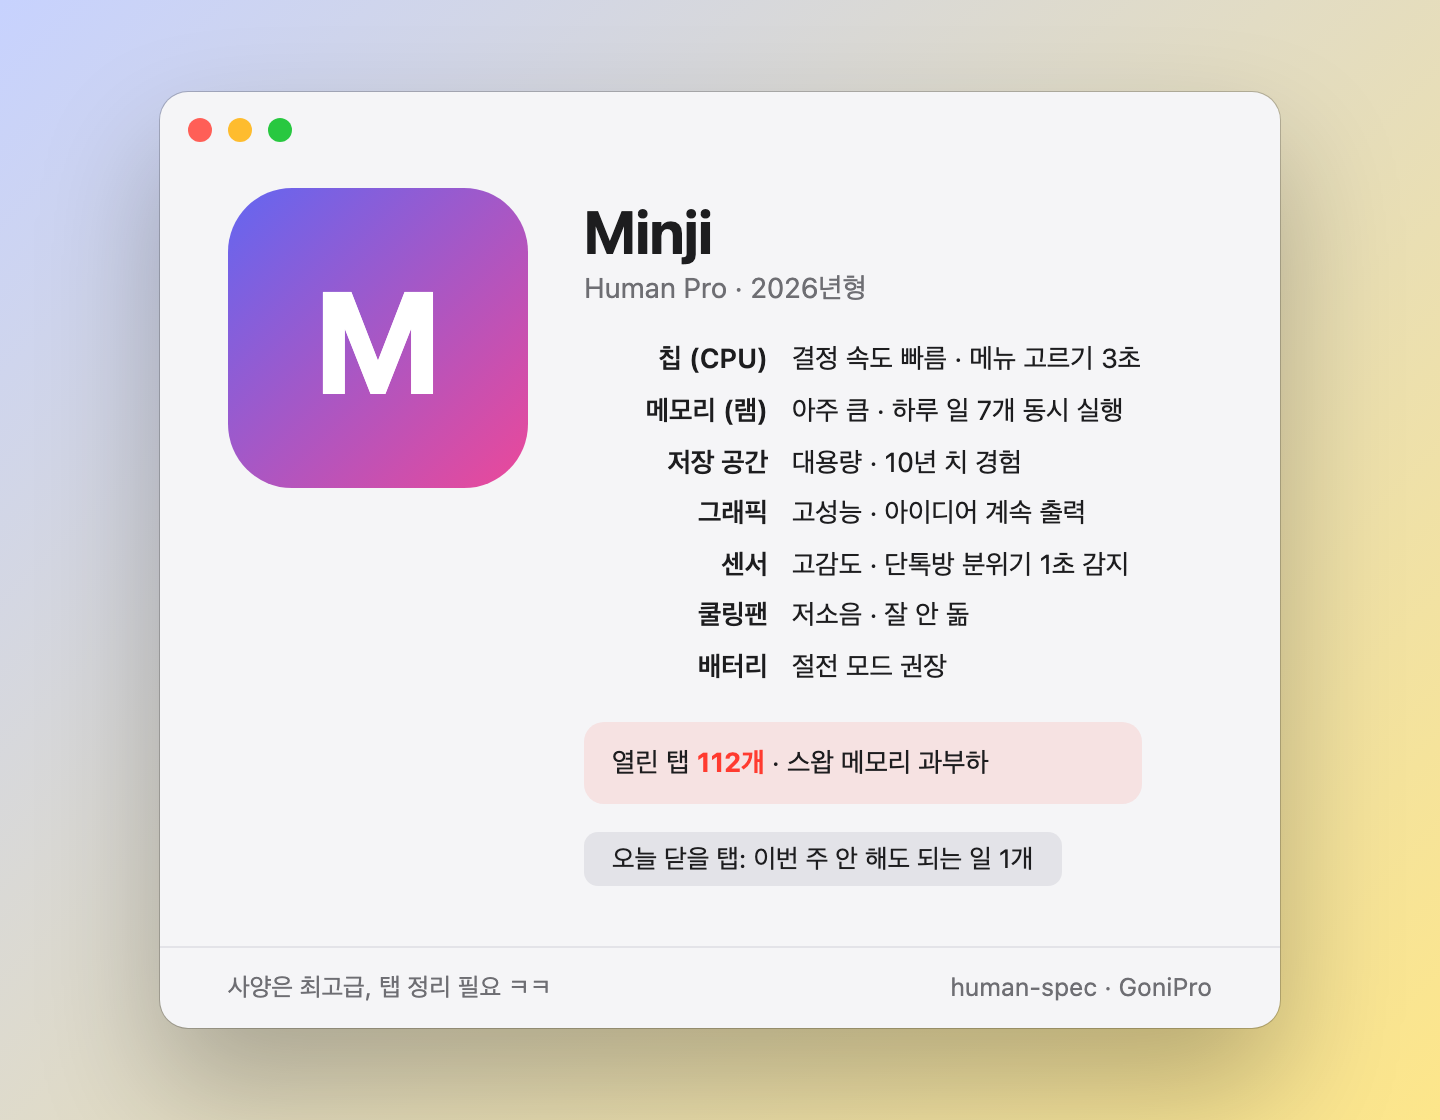
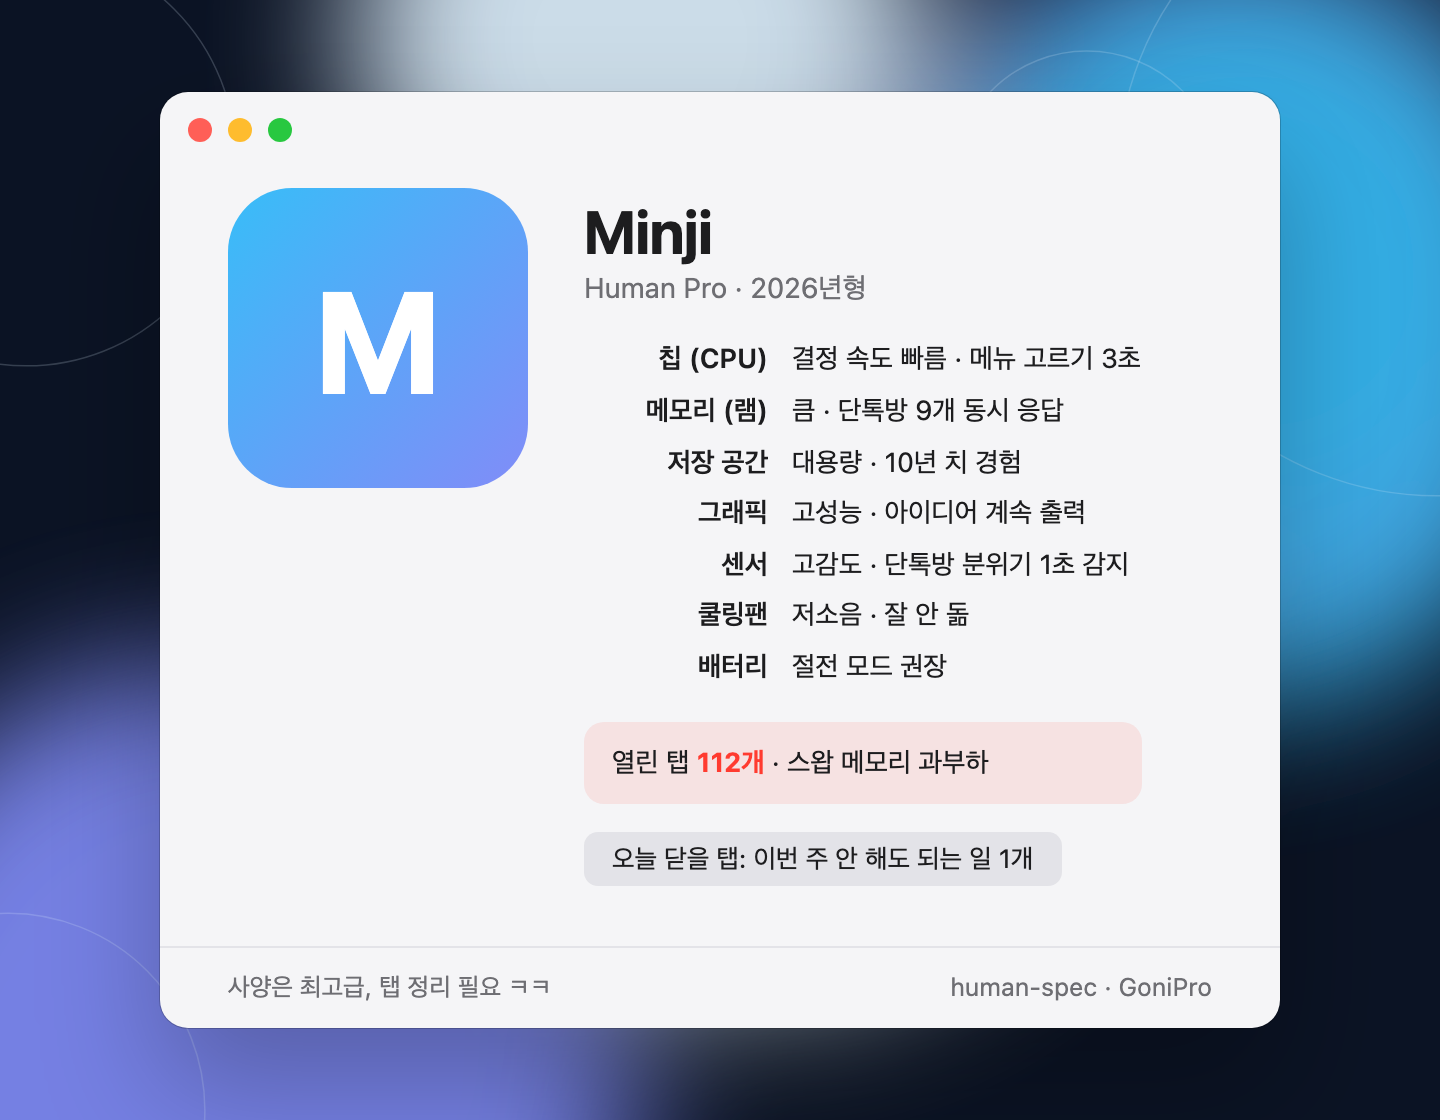
사람마다 다른 배경: 이름으로 색·모양 자동(팔레트 10종 × 선·별·원 무늬)
Claude-Session: https://claude.ai/code/session_01Sd2CQH6QC6bznUp7g1dXaV

diff --git a/template/card.html b/template/card.html
@@ -4,8 +4,8 @@
 <style>
   :root{--win:#f5f5f7;--ink:#1d1d1f;--sub:#6e6e73;--line:#e3e3e8;--accent:#0a84ff}
   @media (prefers-color-scheme:dark){:root{--win:#2b2b2e;--ink:#f5f5f7;--sub:#a1a1a6;--line:#3a3a3e}}
-  body{margin:0;min-height:100vh;display:grid;place-items:center;background:linear-gradient(135deg,#c7d2fe,#fde68a);font-family:-apple-system,BlinkMacSystemFont,"Apple SD Gothic Neo","Noto Sans KR",sans-serif}
-  .win{width:560px;background:var(--win);color:var(--ink);border-radius:14px;box-shadow:0 30px 60px rgba(0,0,0,.25),0 0 0 .5px rgba(0,0,0,.2);overflow:hidden}
+  body{margin:0;min-height:100vh;display:grid;place-items:center;background:#111;position:relative;overflow:hidden;font-family:-apple-system,BlinkMacSystemFont,"Apple SD Gothic Neo","Noto Sans KR",sans-serif}
+  #bg{position:fixed;inset:0;width:100%;height:100%;z-index:0}.win{position:relative;z-index:1;width:560px;background:var(--win);color:var(--ink);border-radius:14px;box-shadow:0 30px 60px rgba(0,0,0,.25),0 0 0 .5px rgba(0,0,0,.2);overflow:hidden}
   .bar{height:38px;display:flex;align-items:center;gap:8px;padding:0 14px}
   .bar i{width:12px;height:12px;border-radius:50%;display:inline-block}
   .body{display:flex;gap:28px;padding:10px 34px 30px}
@@ -20,6 +20,7 @@
   .foot{border-top:1px solid var(--line);padding:12px 34px;font-size:12.5px;color:var(--sub);display:flex;justify-content:space-between}
   .btn{display:inline-block;margin-top:14px;padding:5px 14px;border-radius:7px;background:var(--line);font-size:13px}
 </style></head><body>
+<svg id="bg" preserveAspectRatio="xMidYMid slice"></svg>
 <div class="win">
   <div class="bar"><i style="background:#ff5f57"></i><i style="background:#febc2e"></i><i style="background:#28c840"></i></div>
   <div class="body">
@@ -51,6 +52,22 @@ const D = window.SPEC || {
   tip: "오늘 닫을 탭: 이번 주 안 해도 되는 일 1개",
   sum: "사양은 최고급, 탭 정리 필요 ㅋㅋ"
 };
+{const q=new URLSearchParams(location.search);if(q.get("n")){D.name=q.get("n");D.initial=q.get("n")[0].toUpperCase()}}
+/* 사람마다 다른 배경: 이름으로 색·모양이 정해져요(같은 이름이면 늘 같은 배경) */
+(function(){
+  const PAL=[["#0f172a","#6366f1","#ec4899","#f59e0b"],["#052e2b","#10b981","#22d3ee","#a3e635"],["#1e1b4b","#a855f7","#f472b6","#fde68a"],["#1a0f0a","#f97316","#ef4444","#fbbf24"],["#0b1324","#38bdf8","#818cf8","#e0f2fe"],["#1f2937","#f43f5e","#fb7185","#fda4af"],["#14120c","#eab308","#84cc16","#fef08a"],["#0c0a1e","#7c3aed","#06b6d4","#f0abfc"],["#101820","#ff8a3d","#ffd23f","#3dd6d0"],["#1b1b1f","#94a3b8","#e2e8f0","#60a5fa"]];
+  let h=2166136261; for(const c of (D.seed||D.name||"?")) h=Math.imul(h^c.codePointAt(0),16777619)>>>0;
+  const rnd=()=>{h^=h<<13;h>>>=0;h^=h>>17;h^=h<<5;h>>>=0;return h/4294967296};
+  const p=D.palette||PAL[h%PAL.length]; const W=1440,H=1120;
+  const style=Math.floor(rnd()*3);
+  let g=`<defs><filter id="b"><feGaussianBlur stdDeviation="70"/></filter><linearGradient id="lg" x1="0" y1="0" x2="1" y2="1"><stop offset="0" stop-color="${p[1]}"/><stop offset="1" stop-color="${p[2]}"/></linearGradient></defs><rect width="${W}" height="${H}" fill="${p[0]}"/>`;
+  g+=`<g filter="url(#b)" opacity=".9">`; for(let i=0;i<6;i++){g+=`<circle cx="${rnd()*W}" cy="${rnd()*H}" r="${180+rnd()*260}" fill="${p[1+i%3]}"/>`} g+=`</g>`;
+  if(style===0){for(let i=0;i<7;i++){const y=H*(.15+i*.11)+rnd()*40;g+=`<path d="M0 ${y} C ${W*.3} ${y-120*rnd()}, ${W*.6} ${y+140*rnd()}, ${W} ${y-60}" fill="none" stroke="${p[3]}" stroke-opacity=".18" stroke-width="2"/>`}}
+  if(style===1){for(let i=0;i<40;i++){g+=`<circle cx="${rnd()*W}" cy="${rnd()*H}" r="${1+rnd()*3}" fill="${p[3]}" opacity="${.3+rnd()*.5}"/>`}}
+  if(style===2){for(let i=0;i<5;i++){const x=rnd()*W,y=rnd()*H,r=120+rnd()*220;g+=`<circle cx="${x}" cy="${y}" r="${r}" fill="none" stroke="${p[3]}" stroke-opacity=".2" stroke-width="1.5"/>`}}
+  const bg=document.getElementById("bg"); bg.setAttribute("viewBox",`0 0 ${W} ${H}`); bg.innerHTML=g;
+  document.getElementById("pic").style.background=`linear-gradient(135deg,${p[1]},${p[2]})`;
+})();
 document.getElementById("name").textContent = D.name;
 document.getElementById("pic").textContent = D.initial || (D.name||"?")[0];
 document.getElementById("model").textContent = D.model;
